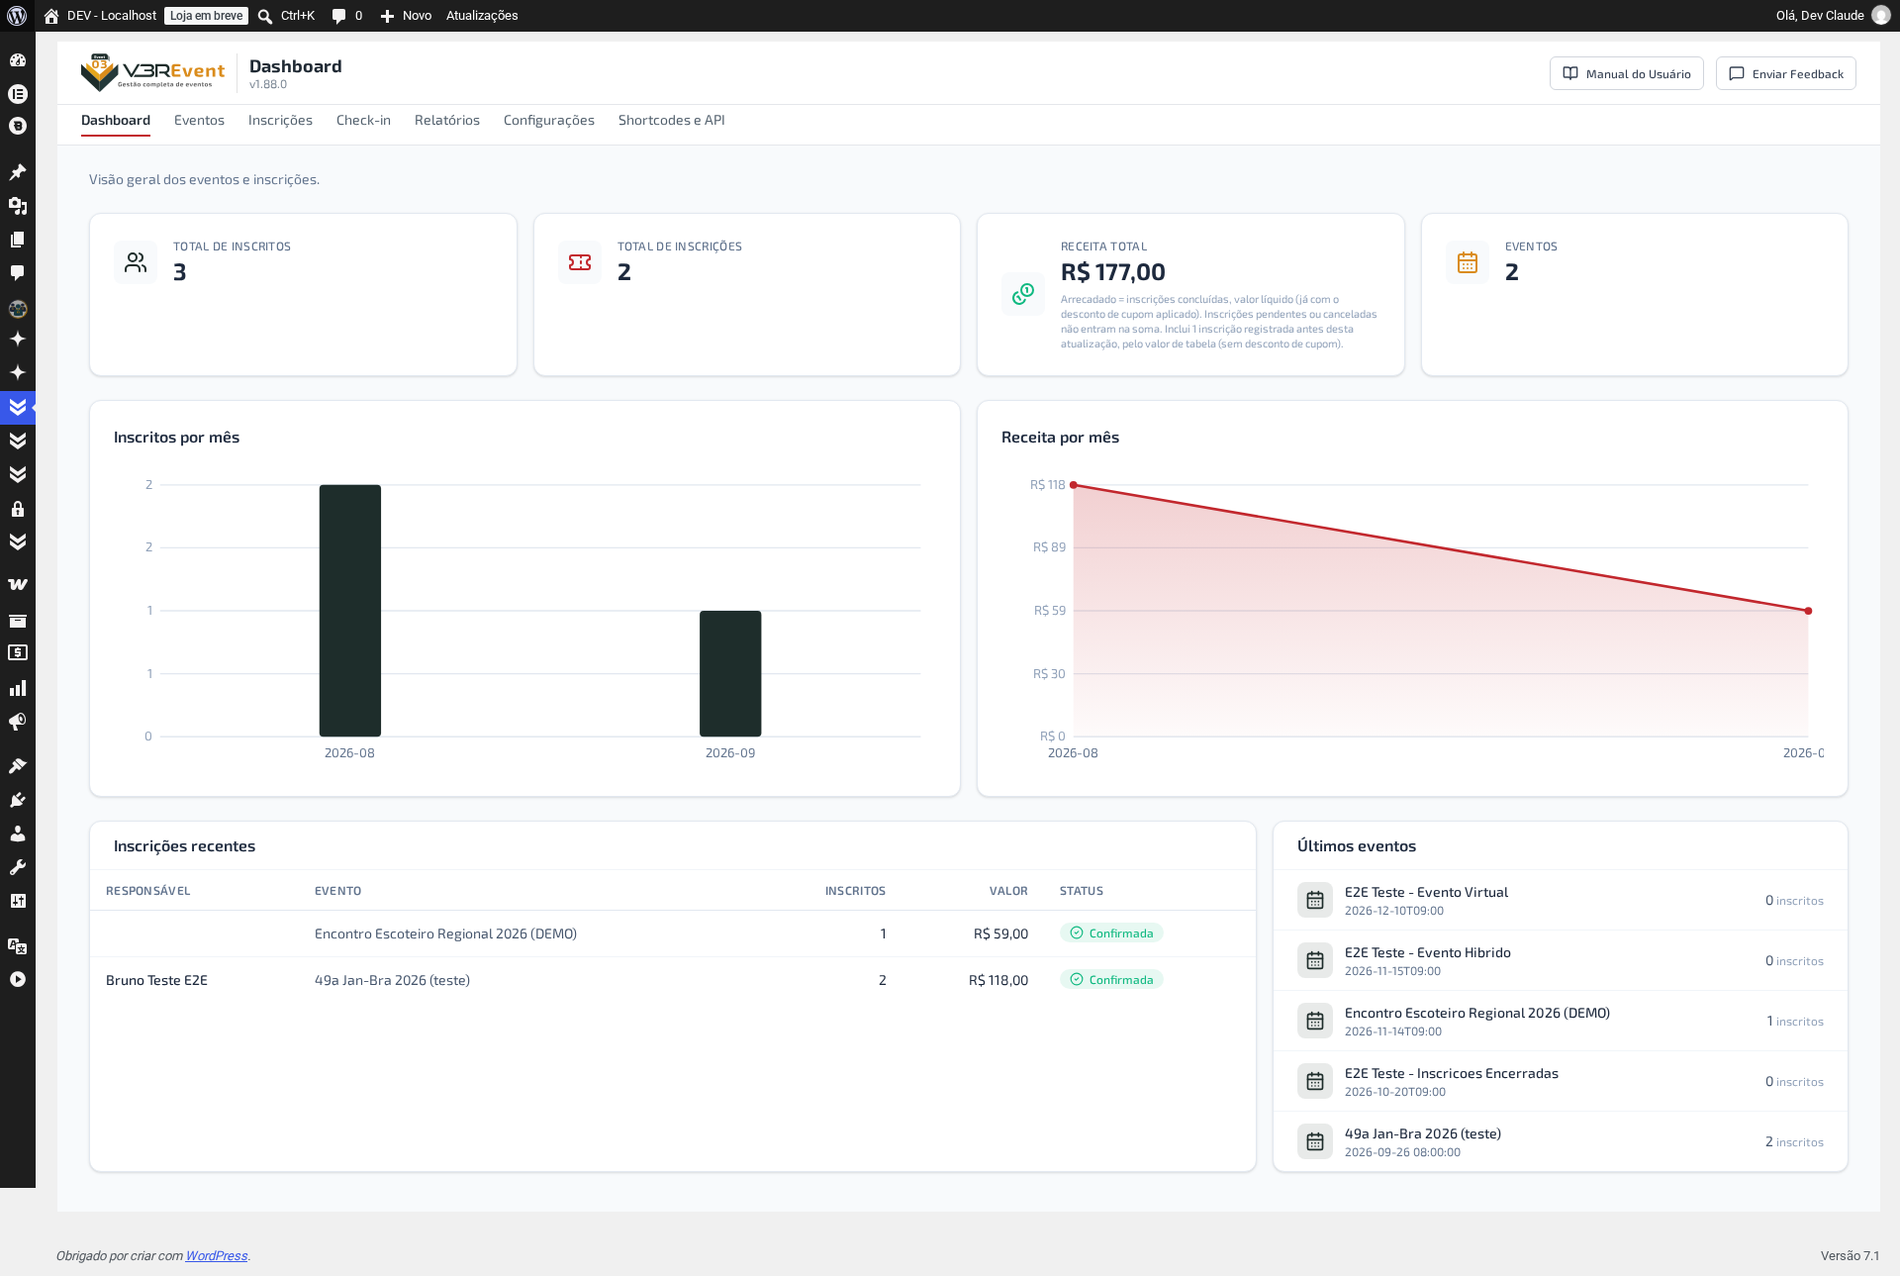
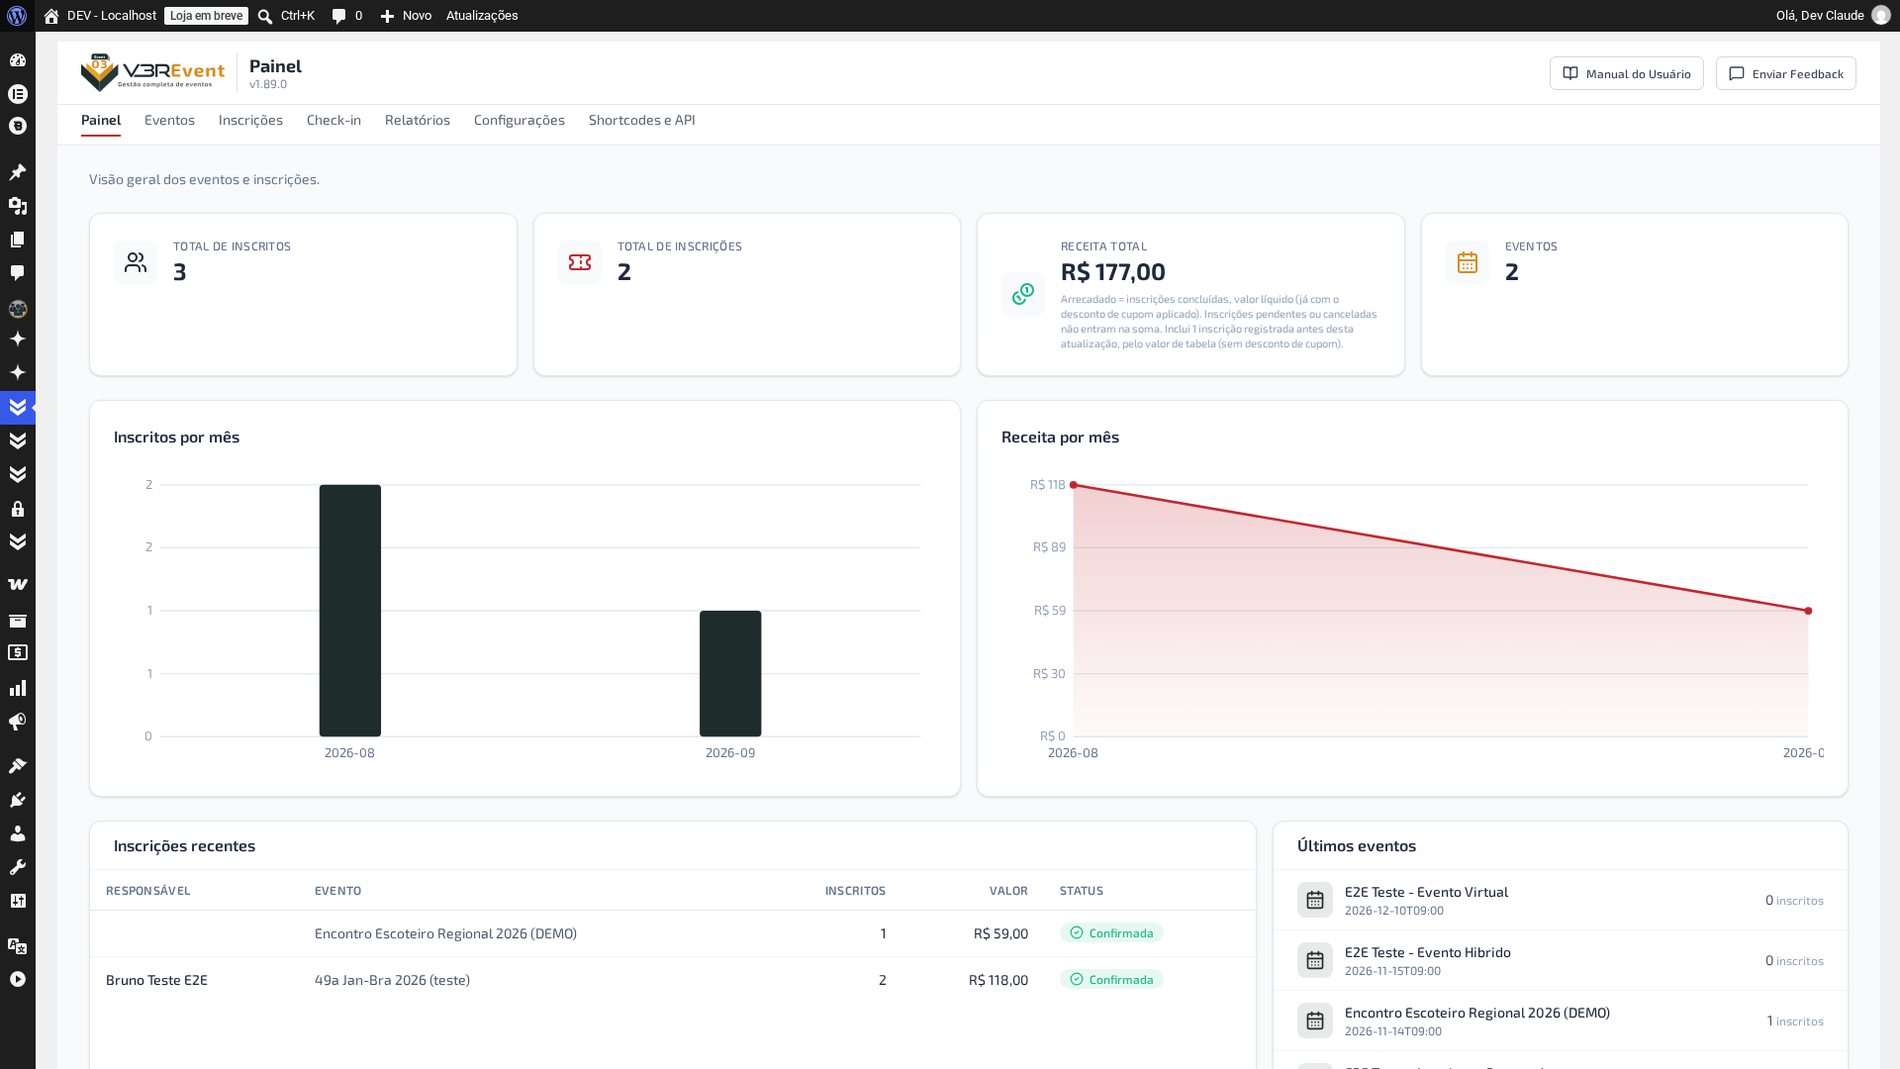
docs(manual): v1.89.0 — modelos de e-mail, duplicidade, acesso às telas e aba Licença
- Configurações: os sete modelos de e-mail editáveis (eram três) e a
  restrição de acesso a Configurações e Shortcodes e API (#160, #181)
- Licença: seção nova, que não existia no manual (#149)
- Inscrições, editor de evento e formulário público: a duplicidade e o
  aviso "você já está inscrito" (#163)
- Documentos e referência da API: o código mais longo, com os links
  antigos continuando válidos (#153)
- Capturas refeitas com a aparência nova do painel (#184, parcial)

diff --git a/modulos/configuracoes.md b/modulos/configuracoes.md
@@ -6,7 +6,10 @@ nav_order: 7
 
 # Configurações
 
-As **Configurações** valem para **toda a organização** e servem de base para os eventos. Ficam organizadas em cinco abas — **Organização, E-mails, Aparência, Avançado e Administradores** — e são acessíveis ao **Administrador da Organização**. Um botão **Salvar** grava as alterações.
+As **Configurações** valem para **toda a organização** e servem de base para os eventos. Ficam organizadas em seis abas — **Organização, E-mails, Aparência, Avançado, Administradores e Licença** — e só aparecem para o **Administrador da Organização** (e o administrador do site). Um botão **Salvar** grava as alterações.
+
+{: .note }
+> **Coordenador de Eventos e Equipe de Evento não veem esta tela.** Ela some do menu para os dois papéis — antes, o menu aparecia mas salvar dava erro, o que confundia mais do que ajudava. Veja os três papéis em **[Primeiros passos → Entender os papéis de acesso](/primeiros-passos/#4-entender-os-papéis-de-acesso)**.
 
 ## Organização
 
@@ -23,22 +26,33 @@ Os dados da organização que promove os eventos — reaproveitados em recibos, 
 
 ## E-mails
 
-Os templates da comunicação automática — três, cada um com **assunto** e **corpo** próprios.
+Os templates da comunicação automática — sete, cada um com **assunto** e **corpo** próprios, e todos editáveis. Até a v1.88, só os três primeiros (confirmação, relatório e acesso) podiam ser personalizados; os outros quatro (recibo, credencial, convite de avaliação e certificado) usavam um texto fixo. Agora todos passam por aqui.
 
-![Configurações — aba E-mails](/assets/screenshots/config-emails.png)
+![Configurações — aba E-mails: remetente, e-mail de confirmação e de relatório](/assets/screenshots/config-emails.png)
 
-- **Remetente** (nome e e-mail), no topo, vale para os três;
-- **E-mail de confirmação** (enviado a cada participante ao confirmar a inscrição);
-- **E-mail de relatório** (enviado ao responsável, com o resumo e o anexo dos inscritos);
-- **E-mail de acesso à área do inscrito** (enviado a quem pede o link na **[Área do Inscrito](/modulos/area-do-inscrito/)**, informando o e-mail usado na inscrição).
+- **Remetente** (nome e e-mail), no topo, vale para os sete;
+- **E-mail de confirmação** (participante) — enviado a cada participante ao confirmar a inscrição;
+- **E-mail de relatório** (responsável) — enviado ao responsável, com o resumo e o anexo dos inscritos;
+- **E-mail de acesso à área do inscrito** — enviado a quem pede o link na **[Área do Inscrito](/modulos/area-do-inscrito/)**, informando o e-mail usado na inscrição;
+- **E-mail do recibo** (responsável) — enviado automaticamente a quem pagou, assim que a inscrição é confirmada, quando o recibo está ligado nas Configurações. Vai com o PDF do recibo em anexo;
+- **E-mail da credencial** (participante) — enviado ao próprio participante quando o evento oferece credencial e pede o envio automático. Vai com o PDF da credencial em anexo;
+- **E-mail do convite de avaliação** (participante) — enviado aos participantes presentes quando a coordenação dispara os convites na tela de avaliação do evento;
+- **E-mail do certificado** (participante) — enviado aos participantes elegíveis quando a coordenação dispara a entrega na tela de certificado do evento.
 
-Cada bloco mostra, abaixo do texto, **quando aquele e-mail é disparado** e as **variáveis** que valem ali — exibidas como dica na própria tela, e diferentes entre os três (o de confirmação usa `{event_name}`, `{attendee_name}`, `{voucher_url}` etc.; o de acesso usa `{access_url}`, `{valid_hours}`, `{site_name}` e `{site_url}`). Cada evento pode sobrescrever os dois primeiros; o e-mail de acesso é único para toda a organização, já que a Área do Inscrito não é de um evento específico.
+![Configurações — aba E-mails: acesso à área do inscrito, recibo e credencial](/assets/screenshots/config-emails-novos.png)
+
+![Configurações — aba E-mails: credencial, convite de avaliação e certificado](/assets/screenshots/config-emails-avaliacao-cert.png)
+
+Cada bloco mostra, abaixo do título, uma frase dizendo **quando aquele e-mail é disparado**, e abaixo do corpo as **variáveis** que valem ali — diferentes em cada um (o de confirmação usa `{event_name}`, `{attendee_name}`, `{voucher_url}` etc.; o do recibo usa `{receipt_url}`; o da credencial usa `{credential_url}`; e assim por diante). Os quatro primeiros podem ser sobrescritos por evento; os demais (recibo, credencial, avaliação, certificado) também.
 
 {: .tip }
 > **`{voucher_url}` é o link do [comprovante individual](/modulos/documentos/#comprovante) daquele participante.** Se o seu texto personalizado do e-mail de confirmação não usa essa variável, o link é **acrescentado automaticamente ao final** da mensagem — ninguém deixa de receber o comprovante por causa de uma personalização feita antes desta variável existir.
 
 {: .tip }
 > **O e-mail de acesso à área do inscrito traz um link pessoal, de uso único, que expira em algumas horas.** Vale manter no texto a frase avisando isso (o padrão já traz) — é o que evita que alguém encaminhe a mensagem achando que o link continua valendo depois.
+
+{: .tip }
+> **Por que personalizar estes quatro agora?** Recibo, credencial, convite de avaliação e certificado chegam para o participante ou pagador do jeito que o texto padrão define — sem antes dar para trocar o tom, adaptar ao seu evento ou traduzir. Se o seu evento tem identidade própria (nome da organização, linguagem mais informal, outro idioma), vale revisar os quatro antes do primeiro disparo.
 
 ## Aparência
 
@@ -68,3 +82,14 @@ Define quem são os **Administradores da Organização** — os usuários com ac
 
 {: .note }
 > Este é o topo da hierarquia de acesso. **Coordenadores** e **Equipe** são atribuídos por evento, na aba **Equipe** do editor de evento — não aqui. Veja os papéis em **[Primeiros passos](/primeiros-passos/)**.
+
+## Licença
+
+Onde você ativa a chave de licença do V3REvent.
+
+![Configurações — aba Licença, sem licença ativada](/assets/screenshots/config-licenca.png)
+
+{: .important }
+> **A licença dá direito a atualizações e correções — ela nunca desliga o plugin.** Sem uma licença válida, o V3REvent continua funcionando por inteiro; o que fica parado é só o recebimento de versões novas.
+
+Cole a chave (formato `V3RL-XXXX-XXXX-XXXX-XXXX`) e clique em **Ativar**. Depois de ativada, a tela sempre mostra a versão mascarada da chave — ela só trafega por inteiro no momento da ativação.

diff --git a/modulos/inscricoes.md b/modulos/inscricoes.md
@@ -89,6 +89,18 @@ Quando existe **pelo menos uma falha** no recorte atual (evento, período e filt
 
 Alguns eventos guardam o e-mail do participante em mais de um lugar (por exemplo, um campo de e-mail do formulário do evento e um cadastro interno). Quando essas duas fontes **divergem**, a confirmação vai para **os dois endereços**, em **mensagens separadas** — nunca os dois juntos no mesmo e-mail, o que exporia um endereço ao outro. Se um dos dois for inválido ou estiver vazio, a mensagem vai só para o que for válido; se os dois forem iguais, é enviada uma única mensagem, sem duplicar. A situação **Falhou** só acontece quando nenhum dos endereços é válido.
 
+## Duplicidade — quando a pessoa já está inscrita
+
+A coluna **Duplicidade** marca **Duplicada** quando o mesmo participante aparece mais de uma vez no mesmo evento. A comparação é pelo **CPF**, quando o evento pede CPF no formulário; nos eventos que não pedem, é pelo **e-mail**.
+
+{: .note }
+> **A marcação é informativa — o V3REvent não bloqueia nem cancela nada sozinho.** Duas inscrições da mesma pessoa podem ser legítimas (ela se arrependeu de uma modalidade e comprou outra, por exemplo) ou um erro de fato. Cabe a quem organiza olhar o caso e decidir: manter as duas, cancelar uma pelo **menu de status** da linha, ou falar com o participante.
+
+{: .tip }
+> **Por que isto importa.** Antes desta coluna, uma inscrição repetida só aparecia quando alguém reparava manualmente — folheando a lista, ou quando o relatório fechava com um total maior do que o esperado. Agora a duplicidade salta aos olhos assim que ela acontece, na própria lista, sem precisar cruzar planilha.
+
+O mesmo aviso aparece para quem se inscreve: se a pessoa tentar se inscrever de novo no mesmo evento, o **formulário público** avisa que ela já está inscrita e mostra um caminho para a própria inscrição — mas não impede que ela prossiga, caso a segunda inscrição seja mesmo intencional. Veja **[Formulário público → Já está inscrito?](/modulos/formulario-publico/#já-está-inscrito)**.
+
 ## Reenviar a confirmação de inscrição
 
 Quando um participante diz que não recebeu o e-mail de confirmação — foi para o spam, digitou o e-mail errado e já corrigiu, ou simplesmente sumiu —, você reenvia direto da lista, sem precisar pedir para a pessoa se inscrever de novo.

diff --git a/modulos/formulario-publico.md b/modulos/formulario-publico.md
@@ -57,6 +57,17 @@ Cada evento define um **[Tipo de inscrição](/modulos/editor-evento/)** que con
 {: .tip }
 > **Tem um cupom de desconto?** No carrinho ou no checkout, o participante pode inserir o código no campo de cupom e o desconto é abatido do total. Veja como criar e restringir cupons em **[Descontos com cupom](/guia-do-gestor/descontos-com-cupom/)**.
 
+## Já está inscrito?
+{: #já-está-inscrito }
+
+Se o CPF (ou, em eventos que não pedem CPF, o e-mail) que a pessoa digitou já tem uma inscrição confirmada **neste mesmo evento**, o formulário avisa antes de ela seguir para o pagamento, com um caminho para encontrar a própria inscrição — mesmo endereço da **[Área do Inscrito](/modulos/area-do-inscrito/)**.
+
+{: .important }
+> **É um aviso, não um bloqueio.** A pessoa pode continuar e se inscrever de novo mesmo assim — por exemplo, se ela se arrependeu da modalidade escolhida antes e está comprando a certa, ou se são duas pessoas diferentes que, por coincidência, compartilham e-mail (um casal que só tem um endereço, por exemplo, em evento sem CPF). O formulário só evita que alguém se inscreva duas vezes **sem perceber**.
+
+{: .tip }
+> **Por que isto importa.** Antes deste aviso, uma inscrição repetida só aparecia depois — no relatório do evento, com um total maior do que o esperado, ou quando o participante reclamava de ter pago duas vezes. A lista de **[Inscrições](/modulos/inscricoes/#duplicidade--quando-a-pessoa-já-está-inscrita)** também marca esses casos com **Duplicada**, para quem organiza revisar depois.
+
 ## Sugestão de correção de e-mail
 
 Todo campo de e-mail do formulário — o do responsável e qualquer campo de e-mail que você tenha configurado no evento — confere o domínio digitado e, se ele for parecido demais com um domínio comum (`gmail.com`, `hotmail.com`, `outlook.com`, `yahoo.com`...), sugere a correção logo abaixo do campo.

diff --git a/novidades.md b/novidades.md
@@ -12,6 +12,15 @@ O que mudou no V3REvent, em linguagem simples — **da mais recente para a mais 
 
 ---
 
+## Avisa quem tenta se inscrever de novo, mais quatro modelos de e-mail editáveis, e o Painel com um nome só
+**v1.89.0 · setembro de 2026**
+
+- **Quem tenta se inscrever de novo no mesmo evento agora é avisado.** O formulário público mostra que a pessoa já está inscrita e aponta o caminho até a própria inscrição — mas não bloqueia, porque às vezes a segunda inscrição é mesmo intencional. A comparação é pelo **CPF** (quando o evento pede) ou pelo **e-mail**. A lista de **[Inscrições](/modulos/inscricoes/#duplicidade--quando-a-pessoa-já-está-inscrita)** ganhou a coluna **Duplicidade**, para quem organiza revisar os casos depois.
+- **Recibo, credencial, convite de avaliação e certificado agora têm o texto do e-mail editável**, em **[Configurações → E-mails](/modulos/configuracoes/#e-mails)** — antes só confirmação, relatório e acesso à área do inscrito podiam ser personalizados.
+- **Configurações e Shortcodes e API deixaram de aparecer para Coordenador de Eventos e Equipe de Evento.** As duas telas são de administração da organização; antes elas abriam para os outros papéis e davam erro ao salvar.
+- **A tela inicial chama-se "Painel" nos dois lugares** — painel administrativo e gestão pelo site. Antes, o painel administrativo ainda dizia "Dashboard".
+- O código que identifica recibo, credencial, comprovante e certificado ficou **mais longo** (mais difícil de adivinhar por tentativa). Nada muda para quem já tem um link em mãos: **todo link já emitido continua funcionando**.
+
 ## Correções na edição de participante: aviso de devolução manual e caixa de aviso no painel do site
 **v1.86.1 · setembro de 2026**
 

diff --git a/modulos/api-referencia.md b/modulos/api-referencia.md
@@ -243,7 +243,7 @@ curl "https://SEU-SITE.com.br/wp-json/v3revent/v1/public/registrations/542" \
   "created_at": "2026-08-03 14:22:10",
   "attendees": [
     {
-      "public_id": "ATT-7F3A9C",
+      "public_id": "8C36-0E01-3F2A-9D17",
       "field_data": { "nome_completo": "João Lima", "email": "joao@empresa.com.br", "cpf": "123.456.789-09" },
       "responsible_name": "Maria Souza",
       "responsible_email": "maria@empresa.com.br",
@@ -275,7 +275,7 @@ curl "https://SEU-SITE.com.br/wp-json/v3revent/v1/public/attendees?event_id=128&
 ```json
 [
   {
-    "public_id": "ATT-7F3A9C",
+    "public_id": "8C36-0E01-3F2A-9D17",
     "field_data": {
       "nome_completo": "João Lima",
       "email": "joao@empresa.com.br",
@@ -293,7 +293,7 @@ curl "https://SEU-SITE.com.br/wp-json/v3revent/v1/public/attendees?event_id=128&
 
 | Campo do inscrito | Significado |
 |---|---|
-| `public_id` | Identificador público do inscrito (o mesmo que vai no QR da credencial). |
+| `public_id` | Identificador público do inscrito (o mesmo que vai no QR da credencial). Inscritos emitidos antes da v1.89 têm um código mais curto — os dois formatos convivem e nenhum dos dois expira. |
 | `field_data` | Os campos do formulário preenchidos (nome, e-mail, CPF e o que mais você configurou). As chaves correspondem aos campos do seu formulário. |
 | `responsible_name` / `responsible_email` | O responsável pela inscrição. Em eventos individuais, são os dados do próprio participante. |
 | `status` | Situação do inscrito (ex.: `paid`, `pending`). |

diff --git a/primeiros-passos.md b/primeiros-passos.md
@@ -50,8 +50,8 @@ O V3REvent controla quem pode fazer o quê por meio de **três papéis**. Isso p
 | Papel | Alcance | O que faz |
 |---|---|---|
 | **Administrador da Organização** | Todo o plugin | Cria e gerencia qualquer evento, define equipes, ajusta as Configurações e cuida da privacidade (LGPD). |
-| **Coordenador de Eventos** | Por evento | Gerencia tudo de **um evento específico** — configuração, inscrições, relatórios, credenciais — mas não mexe nas Configurações globais. |
-| **Equipe de Evento** | Por evento | Foco **operacional**: acompanha inscrições e faz o **check-in** no dia. Não altera a configuração do evento. |
+| **Coordenador de Eventos** | Por evento | Gerencia tudo de **um evento específico** — configuração, inscrições, relatórios, credenciais — mas não vê as Configurações globais nem a tela Shortcodes e API. |
+| **Equipe de Evento** | Por evento | Foco **operacional**: acompanha inscrições e faz o **check-in** no dia. Não altera a configuração do evento, nem vê as Configurações globais ou a tela Shortcodes e API. |
 
 Quem instala o plugin (usuários que já administram o WordPress) entra automaticamente como **Administrador da Organização**. A partir daí, você designa coordenadores e equipe **por evento**, na aba **Equipe** do editor de evento.
 

diff --git a/modulos/documentos.md b/modulos/documentos.md
@@ -8,6 +8,9 @@ nav_order: 10
 
 O V3REvent gera documentos automáticos a partir de um evento: o **recibo** (para o pagador), o **comprovante individual de inscrição** (para cada participante confirmado), a **credencial** (para cada participante, quando o evento oferece) e o **certificado de participação** (para quem é elegível). Todos usam a identidade do evento e os dados da organização, e têm um **link público por código** — imprimível e com versão em PDF.
 
+{: .note }
+> **O código ficou mais longo.** A partir da v1.89, cada documento novo ganha um código maior — mais difícil de adivinhar por tentativa. Isso não afeta nada do que já foi emitido: **todo recibo, credencial, comprovante e certificado já enviado continua abrindo pelo link antigo**, normalmente.
+
 {: .tip }
 > **Quem perdeu o link de um documento não precisa pedir para você reenviar.** A **[Área do Inscrito](/modulos/area-do-inscrito/)** deixa qualquer inscrito reencontrar sozinho, a partir do e-mail usado na inscrição, os documentos que já estão disponíveis para ele: o **comprovante** (todo participante confirmado), o **recibo** (só o responsável pela inscrição), e a credencial e o certificado, quando o evento os oferecer.
 

diff --git a/modulos/editor-evento.md b/modulos/editor-evento.md
@@ -117,7 +117,7 @@ A aba **Inscritos** traz, dentro do próprio evento, a **lista de inscrições d
 
 Nela você:
 
-- **Vê a lista** de inscrições do evento — responsável, número de inscritos, valor, data e **status** —, com **busca** por nome/e-mail e **filtro por status** (pendente, confirmada, cancelada);
+- **Vê a lista** de inscrições do evento — responsável, número de inscritos, valor, data e **status** —, com **busca** por nome/e-mail e **filtro por status** (pendente, confirmada, cancelada), e a mesma coluna **Duplicidade** da tela geral, marcando quem já tem outra inscrição neste evento — veja **[Inscrições → Duplicidade](/modulos/inscricoes/#duplicidade--quando-a-pessoa-já-está-inscrita)**;
 - **Troca o status** de cada inscrição: clique na **etiqueta de status** (a "pílula" colorida) da linha e escolha **Pendente / Confirmada / Cancelada** no menu — a mudança é aplicada na hora;
 
 ![Menu de troca de status aberto na etiqueta de uma inscrição](/assets/screenshots/evento-editor-inscritos-status.png)

diff --git a/modulos/shortcodes-e-api.md b/modulos/shortcodes-e-api.md
@@ -9,6 +9,9 @@ has_children: true
 
 A tela **Shortcodes e API** (menu do V3REvent) reúne, num só lugar, tudo o que você precisa para **exibir conteúdo do evento em páginas** e **conectar o V3REvent a outros sistemas** — CRM, planilhas, dashboards e, principalmente, automações no [n8n](https://n8n.io). A tela tem **quatro abas**: Shortcodes, Chaves de API, API (referência) e Webhooks.
 
+{: .note }
+> **Só o Administrador da Organização (e o administrador do site) vê esta tela.** Coordenador de Eventos e Equipe de Evento não a encontram no menu — antes ela aparecia para os dois, mas nada ali fazia sentido fora do papel de administração. Veja os três papéis em **[Primeiros passos → Entender os papéis de acesso](/primeiros-passos/#4-entender-os-papéis-de-acesso)**.
+
 Esta página cobre a **visão geral** e os **shortcodes**. As demais abas têm páginas próprias, mais detalhadas:
 
 - **[Chaves de API](/modulos/api-chaves/)** — como criar, dar escopo e revogar as chaves de acesso.
